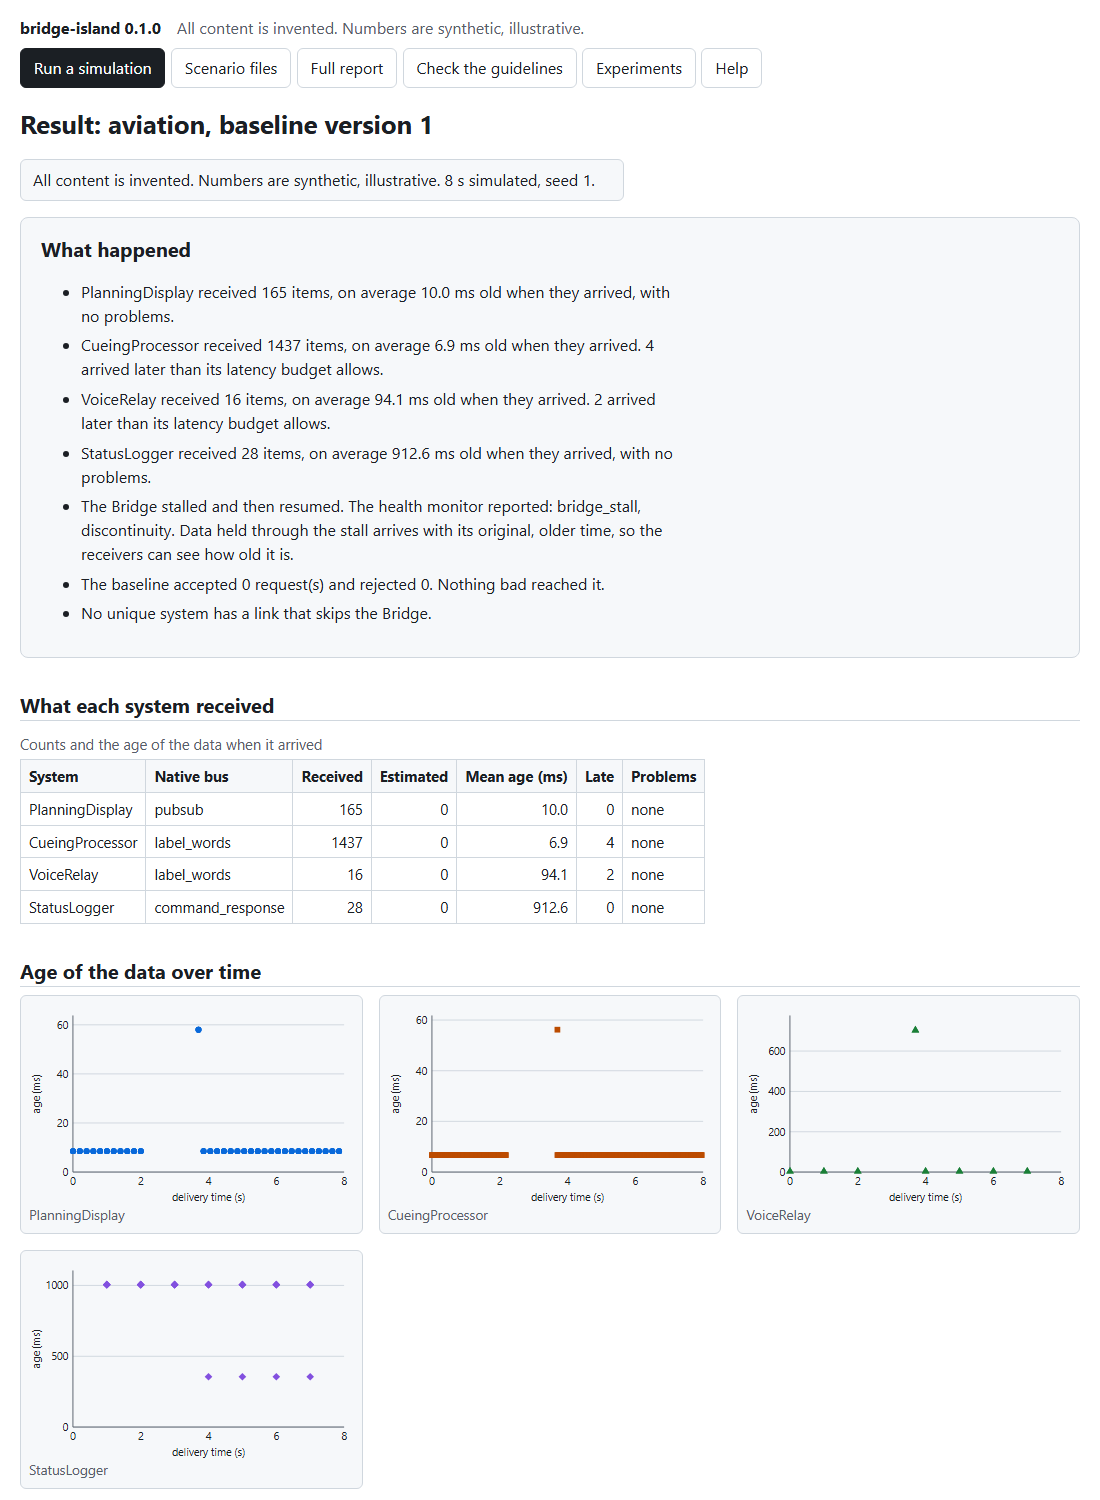
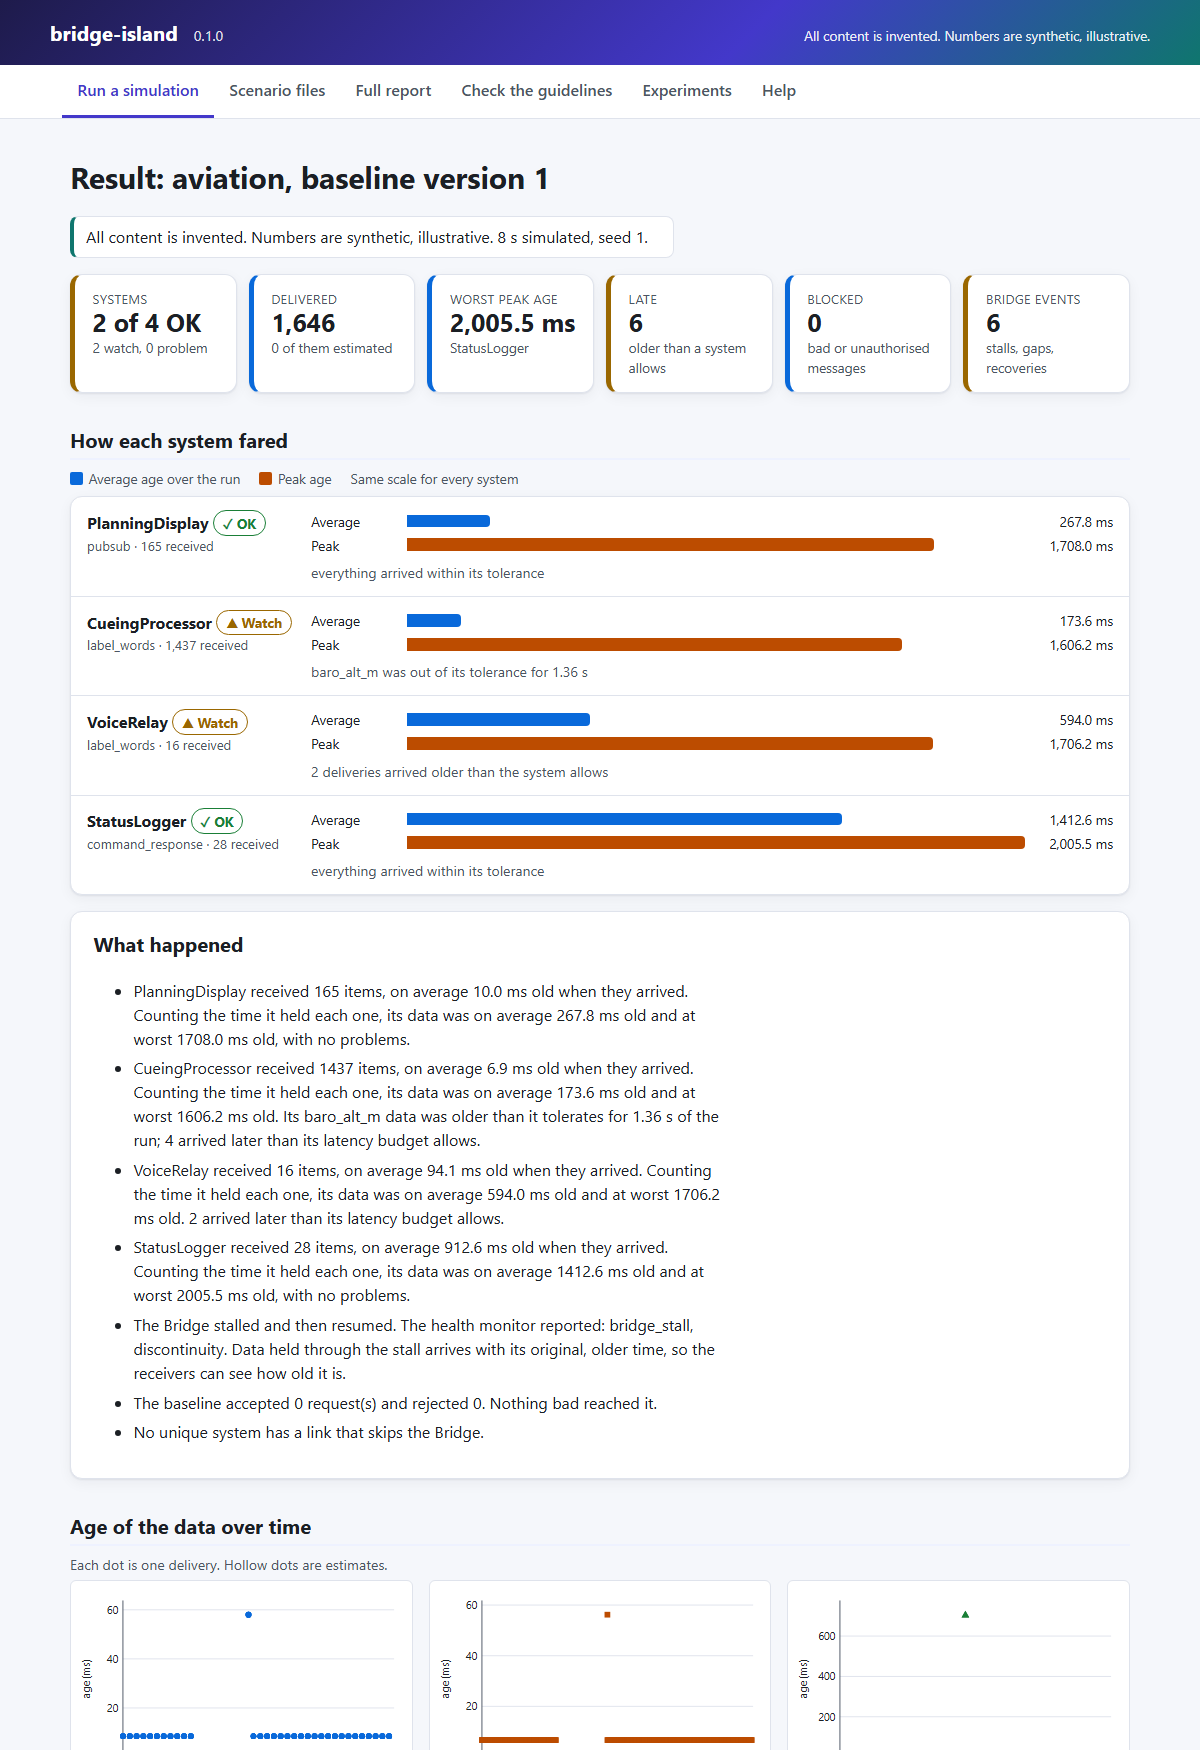
feat(app): redesign with a colour system, three-step home page and styled dashboards

diff --git a/src/bridge_island/ui.py b/src/bridge_island/ui.py
@@ -70,39 +70,61 @@ NAV = [
 ]
 
 EXTRA_CSS = """
-:root{--btn:#0969da;--btn-fg:#fff}
-@media (prefers-color-scheme:dark){:root{--btn:#1f6feb}}
-header.top{display:flex;flex-wrap:wrap;align-items:baseline;gap:.5rem 1rem}
-nav{display:flex;flex-wrap:wrap;gap:.35rem;margin:.5rem 0 1rem}
-nav a{padding:.45rem .8rem;border:1px solid var(--line);border-radius:6px;text-decoration:none;color:var(--fg)}
-nav a[aria-current=page]{background:var(--fg);color:var(--bg);border-color:var(--fg)}
-nav a:focus-visible,button:focus-visible,input:focus-visible,select:focus-visible,textarea:focus-visible,
-summary:focus-visible,a:focus-visible{outline:3px solid var(--s0);outline-offset:2px}
-.card{border:1px solid var(--line);border-radius:8px;padding:1rem 1.25rem;background:var(--card);margin:1rem 0}
+:root{--brand:#4338ca;--brand-soft:#eef2ff;--btn:#4338ca;--btn-fg:#fff;--accent:#0f766e;--field:#6b7280;
+--bg:#f5f7fb;--card:#fff;--line:#dfe3ec;--muted:#4b5563;--shadow:0 1px 2px rgba(15,23,42,.07),0 4px 14px rgba(15,23,42,.05)}
+@media (prefers-color-scheme:dark){:root{--brand:#a5b4fc;--brand-soft:#1e2247;--btn:#818cf8;--btn-fg:#0b1020;
+--accent:#5eead4;--field:#8b93a7;--bg:#0b1020;--card:#141a2e;--line:#27304a;--muted:#a3acc2;--shadow:none}}
+.appbar{background:linear-gradient(135deg,#1e1b4b,#4338ca 62%,#0f766e);color:#fff;padding:1.1rem 1.25rem}
+.appbar>div{max-width:1100px;margin:0 auto;display:flex;flex-wrap:wrap;align-items:baseline;gap:.25rem 1rem}
+.appbar strong{font-size:1.25rem;letter-spacing:.01em}.appbar .ver{opacity:.85;font-size:.9rem}
+.appbar .note{margin-left:auto;font-size:.85rem;opacity:.9}
+nav.tabs{background:var(--card);border-bottom:1px solid var(--line);position:sticky;top:0;z-index:5}
+nav.tabs>div{max-width:1100px;margin:0 auto;display:flex;flex-wrap:wrap;padding:0 .75rem}
+nav.tabs a{padding:.8rem .95rem;text-decoration:none;color:var(--muted);font-weight:600;border-bottom:3px solid transparent}
+nav.tabs a:hover{color:var(--fg);background:var(--brand-soft)}
+nav.tabs a[aria-current=page]{color:var(--brand);border-bottom-color:var(--brand)}
+a:focus-visible,button:focus-visible,input:focus-visible,select:focus-visible,textarea:focus-visible,
+summary:focus-visible{outline:3px solid var(--brand);outline-offset:2px}
+main h1{font-size:1.9rem;letter-spacing:-.01em;margin:1.2rem 0 .3rem}
+.lede{font-size:1.1rem;color:var(--muted);max-width:60ch;margin:0 0 1.2rem}
+.card,.step{border:1px solid var(--line);border-radius:12px;padding:1.1rem 1.4rem;background:var(--card);margin:1rem 0;box-shadow:var(--shadow)}
 .card h2,.card h3{margin-top:0;border:0}
+.steps{display:grid;gap:0}
+.step h2{display:flex;align-items:center;gap:.7rem;margin:0 0 .6rem;border:0;font-size:1.2rem}
+.step .num{flex:none;display:inline-grid;place-items:center;width:2rem;height:2rem;border-radius:50%;
+background:var(--brand);color:var(--btn-fg);font-size:1rem;font-weight:700}
 label{display:block;font-weight:600;margin:.7rem 0 .15rem}
 .hint{color:var(--muted);font-size:.88rem;margin:.1rem 0 .3rem}
-input,select,textarea{font:inherit;padding:.45rem .55rem;border:1px solid var(--muted);border-radius:6px;
+input,select,textarea{font:inherit;padding:.5rem .6rem;border:1px solid var(--field);border-radius:8px;
 background:var(--bg);color:var(--fg);max-width:100%}
 input[type=number]{width:7.5rem}textarea{width:100%;min-height:15rem;font-family:ui-monospace,Consolas,monospace;font-size:.88rem}
 .row{display:flex;flex-wrap:wrap;gap:0 1.5rem}.row>div{flex:1 1 13rem}
-fieldset{border:1px solid var(--line);border-radius:6px;margin:.9rem 0;padding:.4rem 1rem .8rem}
-legend{font-weight:600;padding:0 .4rem}
+fieldset{border:1px solid var(--line);background:var(--bg);border-radius:10px;margin:.9rem 0;padding:.4rem 1rem .8rem}
+legend{font-weight:700;padding:0 .4rem;color:var(--accent)}
 .check{display:flex;gap:.5rem;align-items:center;font-weight:600;margin:.4rem 0}
-.check input{width:1.2rem;height:1.2rem}
-button,a.button{display:inline-block;font:inherit;font-weight:600;padding:.65rem 1.3rem;border:0;border-radius:6px;
+.check input{width:1.2rem;height:1.2rem;accent-color:var(--brand)}
+button,a.button{display:inline-block;font:inherit;font-weight:700;padding:.7rem 1.5rem;border:2px solid var(--btn);border-radius:10px;
 background:var(--btn);color:var(--btn-fg);cursor:pointer;text-decoration:none;margin:.5rem .5rem 0 0}
-button.secondary,a.button.secondary{background:transparent;color:var(--fg);border:1px solid var(--muted)}
-.presets a{display:inline-block;margin:.2rem .4rem .2rem 0;padding:.35rem .7rem;border:1px solid var(--line);
-border-radius:999px;text-decoration:none;color:var(--fg);background:var(--bg)}
-.error{border:2px solid var(--bad);border-radius:8px;padding:.75rem 1rem;margin:1rem 0}
+button:hover,a.button:hover{filter:brightness(1.08)}
+button.secondary,a.button.secondary{background:transparent;color:var(--brand);border:2px solid var(--brand)}
+.step button[type=submit]{font-size:1.1rem;padding:.8rem 2rem}
+.presets{margin:.4rem 0 .6rem}
+.presets a{display:inline-block;margin:.25rem .4rem .25rem 0;padding:.4rem .85rem;border:1px solid var(--brand);
+border-radius:999px;text-decoration:none;color:var(--brand);background:var(--brand-soft);font-weight:600;font-size:.92rem}
+.presets a:hover{background:var(--brand);color:var(--btn-fg)}
+.error{border:2px solid var(--bad);border-radius:10px;padding:.75rem 1rem;margin:1rem 0;background:var(--card)}
 .error strong{color:var(--bad)}
 ul.found li{margin:.35rem 0}
 .pass{color:var(--ok);font-weight:700}.fail{color:var(--bad);font-weight:700}
 details{margin:.5rem 0}summary{cursor:pointer;font-weight:600}
 dt{font-weight:600;margin-top:.7rem}dd{margin:0 0 .3rem 1.2rem;max-width:70ch}
-img.plot{max-width:100%;height:auto;border:1px solid var(--line);border-radius:6px;background:#fff}
-a{color:var(--btn)}
+img.plot{max-width:100%;height:auto;border:1px solid var(--line);border-radius:8px;background:#fff}
+a{color:var(--brand)}
+.banner{border-left:4px solid var(--accent);border-radius:8px;background:var(--card)}
+.tiles .tile{border-radius:12px;box-shadow:var(--shadow);padding:.9rem 1.1rem}.tiles .tile .v{font-size:1.55rem}
+.board{border-radius:12px;box-shadow:var(--shadow)}
+main h2{border-bottom:2px solid var(--brand-soft);padding-bottom:.2rem}
+@media (prefers-reduced-motion:no-preference){button,a.button,nav.tabs a,.presets a{transition:background .15s,color .15s}}
 """
 
 PRESETS = [
@@ -295,10 +317,11 @@ class App:
         doc = (
             '<!doctype html><html lang="en"><head><meta charset="utf-8">'
             '<meta name="viewport" content="width=device-width,initial-scale=1">'
-            f"<title>{E(title)} - bridge-island</title><style>{REPORT_CSS}{EXTRA_CSS}{DASHBOARD_CSS}</style></head><body>"
-            '<a class="skip" href="#main">Skip to content</a><main id="main">'
-            f'<header class="top"><strong>bridge-island {bridge_island.__version__}</strong>'
-            f'<span class="muted">{E(NOTE)}</span></header><nav aria-label="Main">{nav}</nav>{body}'
+            f"<title>{E(title)} - bridge-island</title><style>{REPORT_CSS}{DASHBOARD_CSS}{EXTRA_CSS}</style></head><body>"
+            '<a class="skip" href="#main">Skip to content</a>'
+            f'<header class="appbar"><div><strong>bridge-island</strong><span class="ver">{bridge_island.__version__}</span>'
+            f'<span class="note">{E(NOTE)}</span></div></header>'
+            f'<nav class="tabs" aria-label="Main"><div>{nav}</div></nav><main id="main">{body}'
             "</main></body></html>"
         )
         return Response(status, doc.encode("utf-8"), headers={})
@@ -383,22 +406,18 @@ class App:
             for name, p in PRESETS
         )
         form = f"""
-<form class="card" method="post" action="/run">{self._hidden()}
-<h2>Run a simulation</h2>
-<p>Pick an example, choose what should happen during the run, and press Run. The result explains in plain
-sentences what happened. Nothing is saved on your computer unless you download it.</p>
-<div class="presets" role="group" aria-label="Quick starts"><strong>Quick starts:</strong> {presets}</div>
+<form class="steps" method="post" action="/run">{self._hidden()}
+<section class="step" aria-labelledby="s1"><h2 id="s1"><span class="num" aria-hidden="true">1</span>Choose a platform</h2>
 <div class="row">
  <div><label for="example">Example</label>{self._example_select(v("example", "aviation"))}
   <p class="hint">Two invented platforms: an air vehicle and an infusion device.</p></div>
  <div><label for="version">Baseline version</label>{self._select("version", [("1", "Version 1"), ("2", "Version 2 (a change from version 1)")], v("version", "1"))}
   <p class="hint">Version 2 renames, converts and removes some elements.</p></div>
 </div>
-<div class="row">
- <div><label for="duration">How long (seconds of simulated time)</label><input id="duration" name="duration" type="number" min="1" max="{MAX_DURATION_S:g}" step="any" value="{E(v("duration", "8"))}"></div>
- <div><label for="seed">Random seed</label><input id="seed" name="seed" type="number" step="1" value="{E(v("seed", "1"))}">
-  <p class="hint">The same seed always gives the same result.</p></div>
-</div>
+</section>
+<section class="step" aria-labelledby="s2"><h2 id="s2"><span class="num" aria-hidden="true">2</span>Decide what happens</h2>
+<p class="hint">Start from a ready-made case, or set the details yourself. Leave everything as it is for a normal run.</p>
+<div class="presets" role="group" aria-label="Quick starts"><strong>Quick starts:</strong> {presets}</div>
 <fieldset><legend>How the Bridge behaves</legend>
 <div class="row">
  <div><label for="time_tag">Time stamping</label>{self._select("time_tag", [("source", "Source time (correct)"), ("delivery", "Delivery time (the error the design forbids)")], v("time_tag", "source"))}
@@ -414,9 +433,22 @@ sentences what happened. Nothing is saved on your computer unless you download i
 <p class="hint">The faulty system is the one that can send requests to the baseline.</p></div>
 <div><label for="fault_at">at (s)</label><input id="fault_at" name="fault_at" type="number" min="0" step="any" value="{E(v("fault_at", "2"))}"></div></div>
 </fieldset>
-<button type="submit">Run</button>
+</section>
+<section class="step" aria-labelledby="s3"><h2 id="s3"><span class="num" aria-hidden="true">3</span>Run it</h2>
+<div class="row">
+ <div><label for="duration">How long (seconds of simulated time)</label><input id="duration" name="duration" type="number" min="1" max="{MAX_DURATION_S:g}" step="any" value="{E(v("duration", "8"))}"></div>
+ <div><label for="seed">Random seed</label><input id="seed" name="seed" type="number" step="1" value="{E(v("seed", "1"))}">
+  <p class="hint">The same seed always gives the same result.</p></div>
+</div>
+<button type="submit">Run the simulation</button>
+<p class="hint">The result explains what happened in plain sentences. Nothing is saved unless you download it.</p></section>
 </form>"""
-        return f"<h1>bridge-island</h1>{error}{form}"
+        lede = (
+            '<p class="lede">See what happens when a platform you cannot change is updated, stalls or '
+            "misbehaves, and how a single mediation layer, the Bridge, keeps independent systems "
+            "informed. Three steps, then a plain-English result.</p><!--form-->"
+        )
+        return f"<h1>bridge-island</h1>{lede}{error}{form}"
 
     def _scenario_dict(self, form: Mapping[str, list[str]]) -> dict[str, Any]:
         example = _first(form, "example", "aviation")
@@ -536,7 +568,9 @@ sentences what happened. Nothing is saved on your computer unless you download i
         data = self._scenario_dict(form)
         scenario, system, world, version = self._simulate(data, "the form")
         yaml_text = yaml.safe_dump(data, sort_keys=False)
-        again = "<h2>Change something and run again</h2>" + self._home(form).split("</h1>", 1)[1]
+        again = (
+            "<h2>Change something and run again</h2>" + self._home(form).split("<!--form-->", 1)[1]
+        )
         body = self._results_html(scenario, system, world, version, yaml_text, again)
         return self._page("Result", body, "/")
 

diff --git a/CHANGELOG.md b/CHANGELOG.md
@@ -6,6 +6,12 @@ and the project follows [Semantic Versioning](https://semver.org/).
 
 ## [Unreleased]
 
+### Changed
+- The app has a new look: a colour system with light and dark themes, an app bar and tabs, a home page in three numbered steps (choose a platform, decide what happens, run it), and restyled result dashboards.
+
+### Fixed
+- `--no-color` is accepted after the command as well as before it (`bridge-island demo aviation --no-color`).
+
 ## [0.1.0] - 2026-11-08
 
 ### Added
